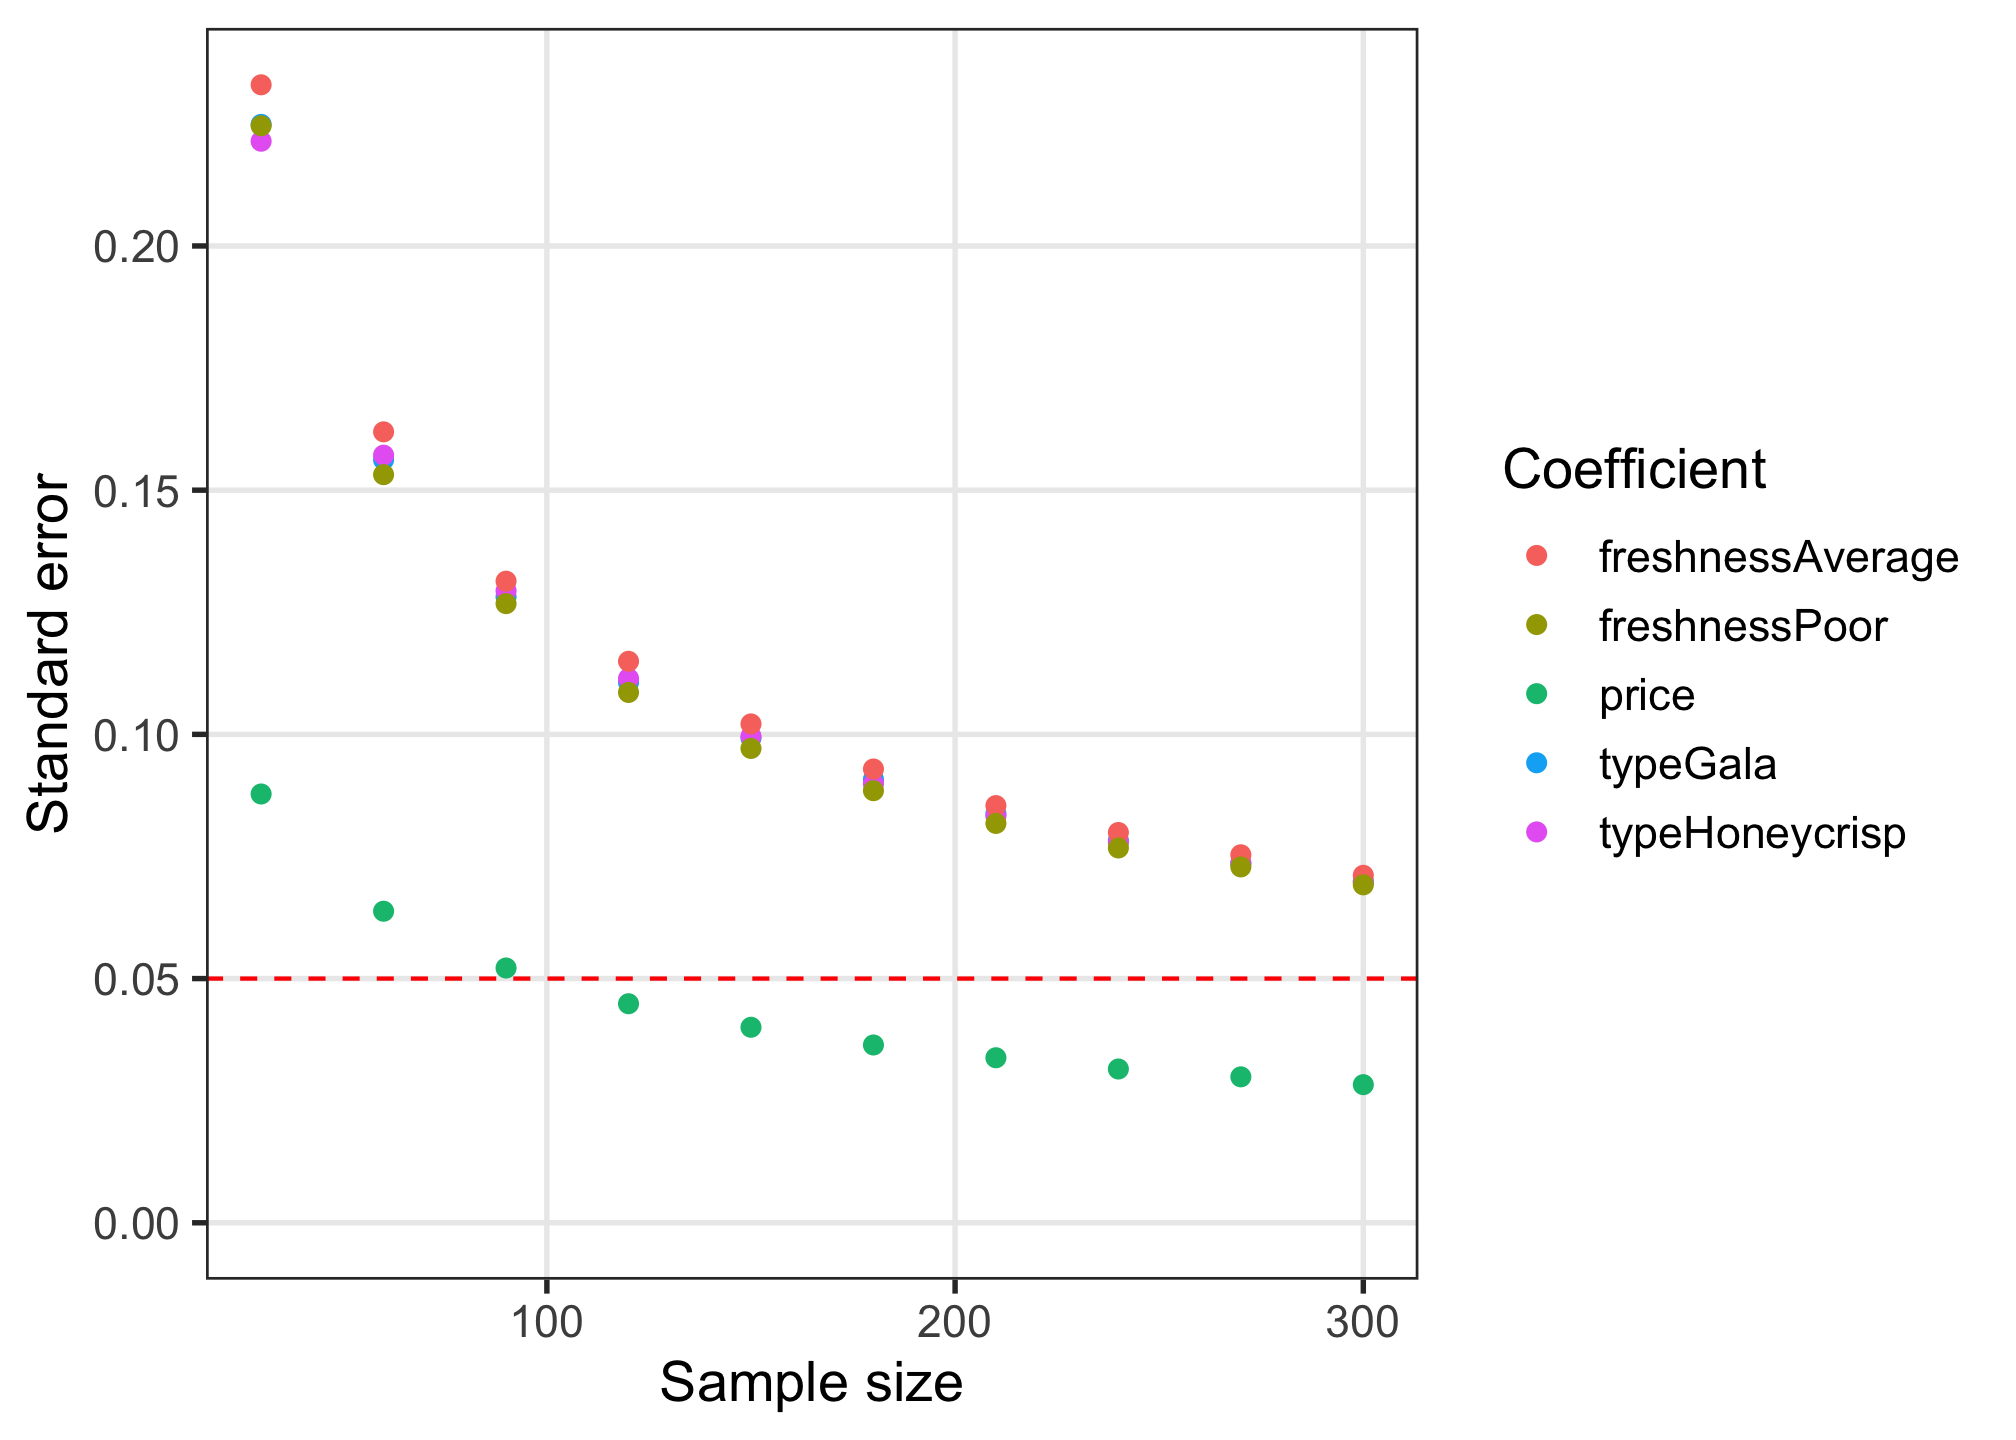
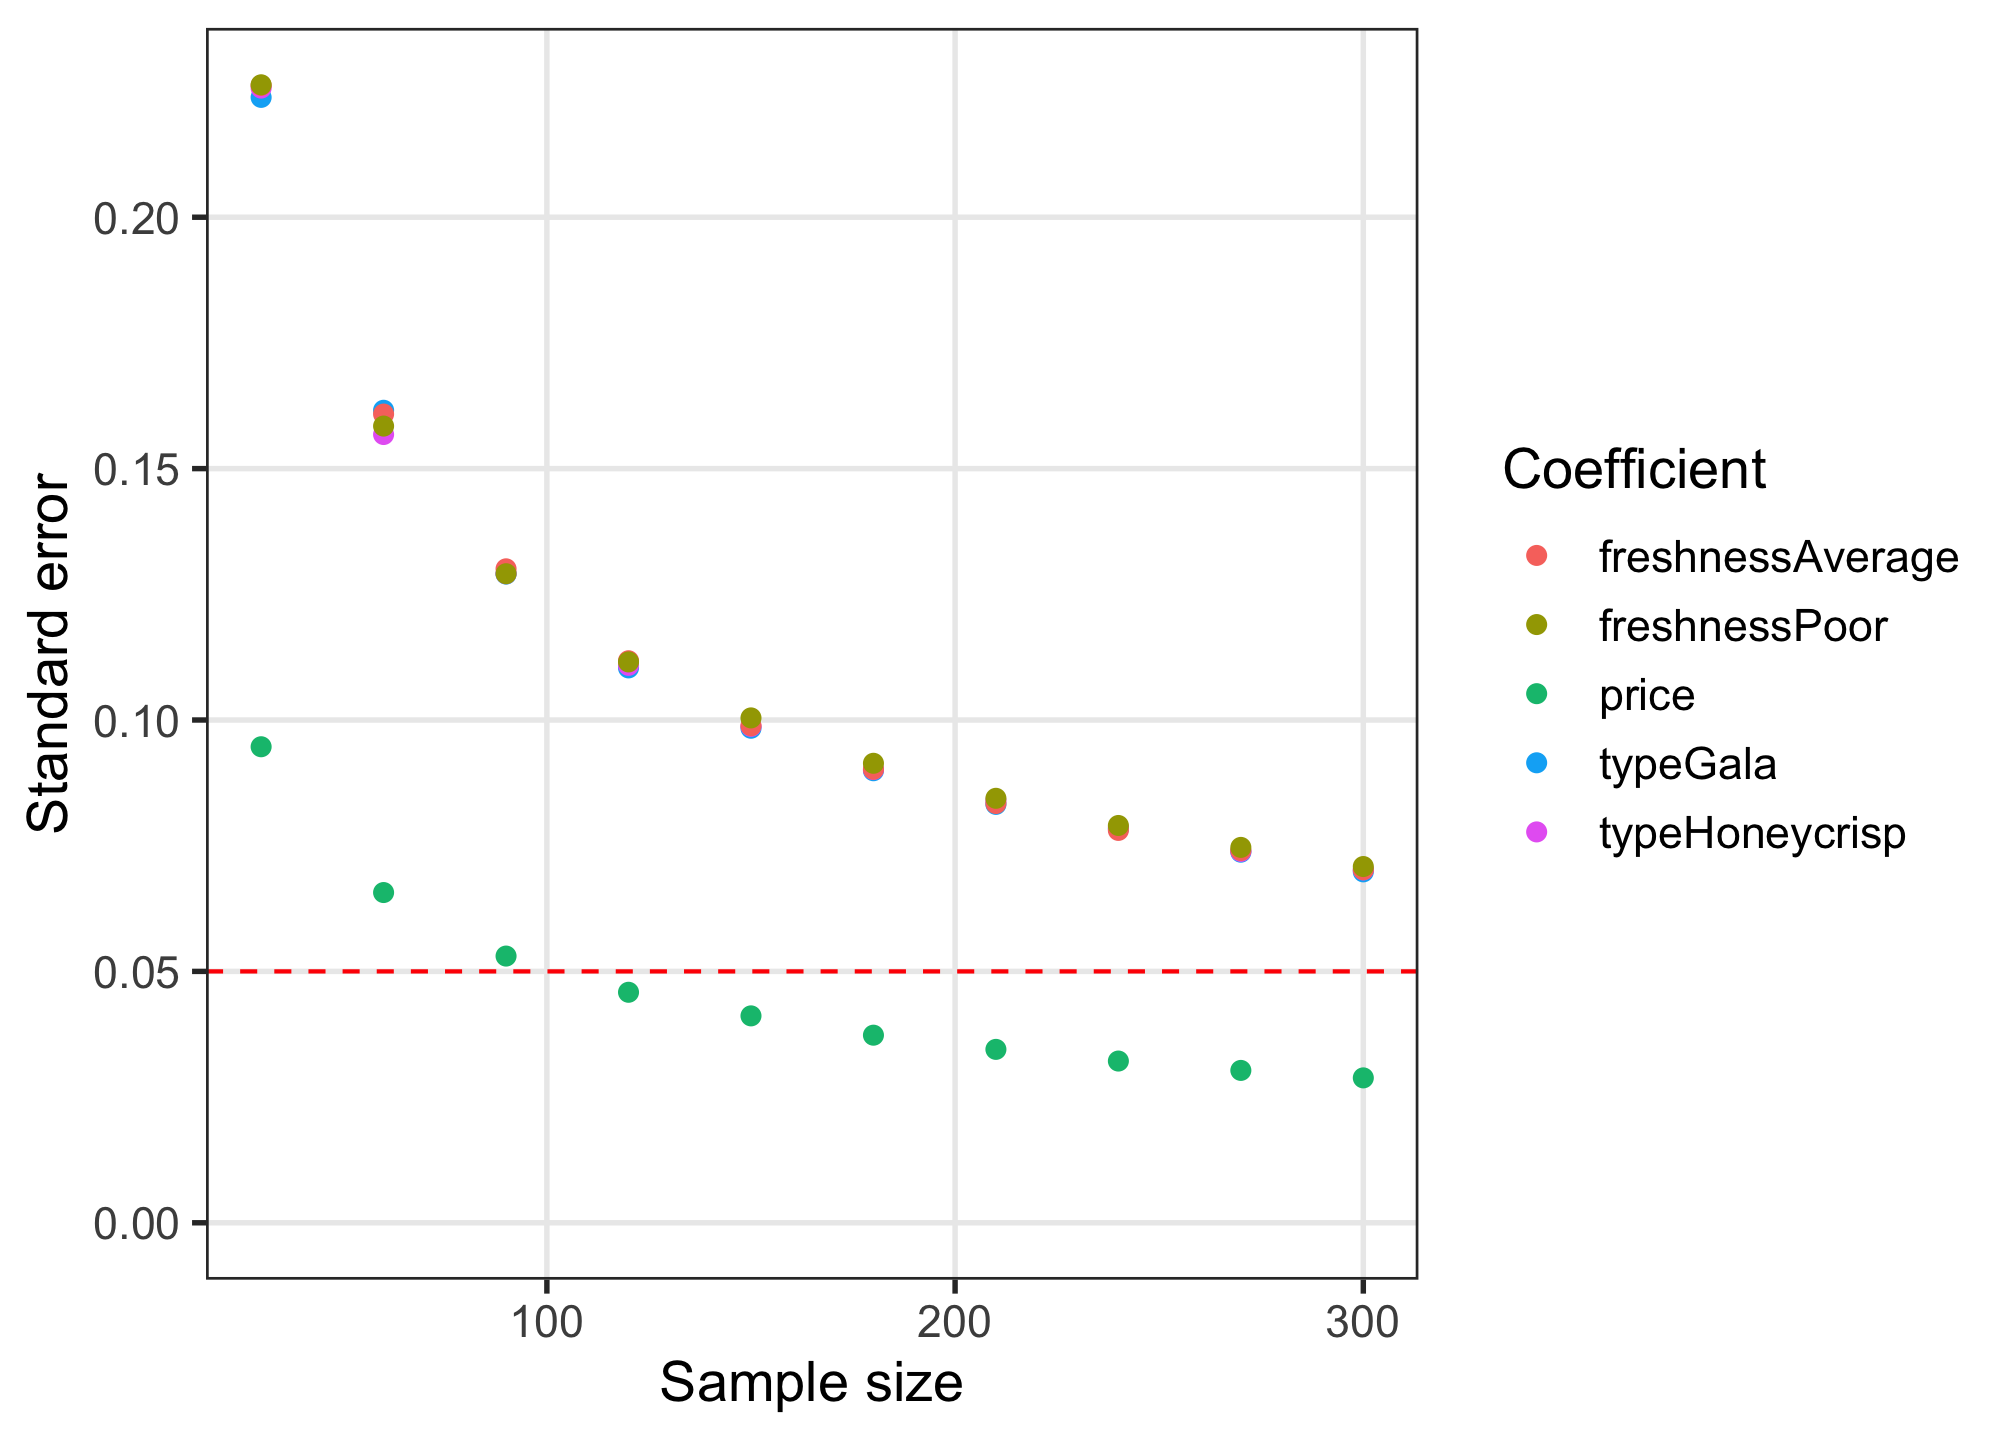
updated readme

diff --git a/README.md b/README.md
@@ -1,9 +1,7 @@
 
 <!-- README.md is generated from README.Rmd. Please edit that file -->
 
-# cbcTools
-
-# logitr <a href='https://jhelvy.github.io/cbcTools/'><img src='man/figures/logo.png' align="right" style="height:139px;"/></a>
+# cbcTools <a href='https://jhelvy.github.io/cbcTools/'><img src='man/figures/logo.png' align="right" style="height:139px;"/></a>
 
 <!-- badges: start -->
 
@@ -84,12 +82,12 @@ dim(design)  # View dimensions
 #> [1] 5400    8
 head(design) # Preview first 6 rows
 #>   respID qID altID obsID profileID price       type freshness
-#> 1      1   1     1     1        47   3.0       Fuji      Poor
-#> 2      1   1     2     1        41   3.5 Honeycrisp   Average
-#> 3      1   1     3     1        39   2.5 Honeycrisp   Average
-#> 4      1   2     1     2        62   3.5 Honeycrisp      Poor
-#> 5      1   2     2     2        49   4.0       Fuji      Poor
-#> 6      1   2     3     2        20   3.5 Honeycrisp Excellent
+#> 1      1   1     1     1         4   2.5       Fuji Excellent
+#> 2      1   1     2     1        24   2.0       Fuji   Average
+#> 3      1   1     3     1        53   2.5       Gala      Poor
+#> 4      1   2     1     2        15   1.0 Honeycrisp Excellent
+#> 5      1   2     2     2        37   1.5 Honeycrisp   Average
+#> 6      1   2     3     2        45   2.0       Fuji      Poor
 ```
 
 For now, the `cbc_design()` function only generates a randomized design.
@@ -131,12 +129,12 @@ dim(design_labeled)
 #> [1] 5400    8
 head(design_labeled)
 #>   respID qID altID obsID profileID price       type freshness
-#> 1      1   1     1     1        24   2.0       Fuji   Average
-#> 2      1   1     2     1        55   3.5       Gala      Poor
-#> 3      1   1     3     1        58   1.5 Honeycrisp      Poor
-#> 4      1   2     1     2        43   1.0       Fuji      Poor
-#> 5      1   2     2     2        33   3.0       Gala   Average
-#> 6      1   2     3     2        38   2.0 Honeycrisp   Average
+#> 1      1   1     1     1         1   1.0       Fuji Excellent
+#> 2      1   1     2     1        54   3.0       Gala      Poor
+#> 3      1   1     3     1        60   2.5 Honeycrisp      Poor
+#> 4      1   2     1     2        25   2.5       Fuji   Average
+#> 5      1   2     2     2        34   3.5       Gala   Average
+#> 6      1   2     3     2        57   1.0 Honeycrisp      Poor
 ```
 
 In the above example, you can see in the first six rows of the survey
@@ -164,19 +162,19 @@ dim(design_nochoice)
 #> [1] 7200   13
 head(design_nochoice)
 #>       respID qID altID obsID profileID price type_Fuji type_Gala
-#> 1          1   1     1     1         1   1.0         1         0
-#> 2          1   1     2     1        58   1.5         0         0
-#> 3          1   1     3     1        29   1.0         0         1
+#> 1          1   1     1     1        18   2.5         0         0
+#> 2          1   1     2     1        37   1.5         0         0
+#> 3          1   1     3     1        10   2.0         0         1
 #> 11000      1   1     4     1         0   0.0         0         0
-#> 4          1   2     1     2        31   2.0         0         1
-#> 5          1   2     2     2         1   1.0         1         0
+#> 4          1   2     1     2        27   3.5         1         0
+#> 5          1   2     2     2        33   3.0         0         1
 #>       type_Honeycrisp freshness_Excellent freshness_Average freshness_Poor
-#> 1                   0                   1                 0              0
-#> 2                   1                   0                 0              1
-#> 3                   0                   0                 1              0
+#> 1                   1                   1                 0              0
+#> 2                   1                   0                 1              0
+#> 3                   0                   1                 0              0
 #> 11000               0                   0                 0              0
 #> 4                   0                   0                 1              0
-#> 5                   0                   1                 0              0
+#> 5                   0                   0                 1              0
 #>       no_choice
 #> 1             0
 #> 2             0
@@ -203,17 +201,17 @@ cbc_balance(design)
 #> price:
 #> 
 #>   1 1.5   2 2.5   3 3.5   4 
-#> 757 786 754 741 757 752 853 
+#> 754 804 790 783 752 786 731 
 #> 
 #> type:
 #> 
 #>       Fuji       Gala Honeycrisp 
-#>       1775       1779       1846 
+#>       1791       1802       1807 
 #> 
 #> freshness:
 #> 
 #> Excellent   Average      Poor 
-#>      1783      1722      1895 
+#>      1786      1815      1799 
 #> 
 #> ==============================
 #> Pairwise attribute counts:
@@ -221,31 +219,31 @@ cbc_balance(design)
 #> price & type:
 #>      
 #>       Fuji Gala Honeycrisp
-#>   1    240  252        265
-#>   1.5  266  261        259
-#>   2    263  235        256
-#>   2.5  233  263        245
-#>   3    244  254        259
-#>   3.5  240  250        262
-#>   4    289  264        300
+#>   1    255  233        266
+#>   1.5  250  275        279
+#>   2    262  288        240
+#>   2.5  267  256        260
+#>   3    242  257        253
+#>   3.5  275  246        265
+#>   4    240  247        244
 #> 
 #> price & freshness:
 #>      
 #>       Excellent Average Poor
-#>   1         252     237  268
-#>   1.5       268     263  255
-#>   2         258     234  262
-#>   2.5       253     218  270
-#>   3         241     243  273
-#>   3.5       229     264  259
-#>   4         282     263  308
+#>   1         251     250  253
+#>   1.5       251     278  275
+#>   2         259     295  236
+#>   2.5       254     275  254
+#>   3         270     231  251
+#>   3.5       249     268  269
+#>   4         252     218  261
 #> 
 #> type & freshness:
 #>             
 #>              Excellent Average Poor
-#>   Fuji             602     569  604
-#>   Gala             573     559  647
-#>   Honeycrisp       608     594  644
+#>   Fuji             595     608  588
+#>   Gala             593     593  616
+#>   Honeycrisp       598     614  595
 ```
 
 The `cbc_overlap()` function prints out a summary of the amount of
@@ -265,17 +263,17 @@ cbc_overlap(design)
 #> price:
 #> 
 #>    1    2    3 
-#>   25  603 1172 
+#>   22  604 1174 
 #> 
 #> type:
 #> 
 #>    1    2    3 
-#>  171 1202  427 
+#>  182 1189  429 
 #> 
 #> freshness:
 #> 
 #>    1    2    3 
-#>  180 1207  413
+#>  190 1195  415
 ```
 
 ## Simulate choices
@@ -291,12 +289,12 @@ data <- cbc_choices(
 
 head(data)
 #>   respID qID altID obsID profileID price       type freshness choice
-#> 1      1   1     1     1        47   3.0       Fuji      Poor      0
-#> 2      1   1     2     1        41   3.5 Honeycrisp   Average      1
-#> 3      1   1     3     1        39   2.5 Honeycrisp   Average      0
-#> 4      1   2     1     2        62   3.5 Honeycrisp      Poor      0
-#> 5      1   2     2     2        49   4.0       Fuji      Poor      0
-#> 6      1   2     3     2        20   3.5 Honeycrisp Excellent      1
+#> 1      1   1     1     1         4   2.5       Fuji Excellent      0
+#> 2      1   1     2     1        24   2.0       Fuji   Average      1
+#> 3      1   1     3     1        53   2.5       Gala      Poor      0
+#> 4      1   2     1     2        15   1.0 Honeycrisp Excellent      1
+#> 5      1   2     2     2        37   1.5 Honeycrisp   Average      0
+#> 6      1   2     3     2        45   2.0       Fuji      Poor      0
 ```
 
 You can also pass a list of prior parameters to define a utility model
@@ -378,20 +376,20 @@ results <- cbc_power(
 
 head(results)
 #>   sampleSize             coef          est         se
-#> 1         30            price -0.053041608 0.08779430
-#> 2         30         typeGala -0.006306645 0.22489573
-#> 3         30   typeHoneycrisp -0.280957278 0.22144512
-#> 4         30 freshnessAverage -0.286889463 0.23299880
-#> 5         30    freshnessPoor -0.206788560 0.22460545
-#> 6         60            price -0.046083030 0.06379055
+#> 1         30            price -0.006224101 0.09468067
+#> 2         30         typeGala  0.369026379 0.22383557
+#> 3         30   typeHoneycrisp -0.091744318 0.22568818
+#> 4         30 freshnessAverage  0.035948707 0.22621849
+#> 5         30    freshnessPoor  0.143719159 0.22633967
+#> 6         60            price  0.011099730 0.06568333
 tail(results)
-#>    sampleSize             coef           est         se
-#> 45        270    freshnessPoor -5.117663e-02 0.07286187
-#> 46        300            price  8.466514e-05 0.02828145
-#> 47        300         typeGala -1.040101e-01 0.06994438
-#> 48        300   typeHoneycrisp -7.826250e-02 0.06974026
-#> 49        300 freshnessAverage -3.539404e-02 0.07114349
-#> 50        300    freshnessPoor -5.963577e-02 0.06919301
+#>    sampleSize             coef          est         se
+#> 45        270    freshnessPoor  0.052243028 0.07466345
+#> 46        300            price -0.039799782 0.02882047
+#> 47        300         typeGala  0.155510830 0.06979850
+#> 48        300   typeHoneycrisp -0.007908001 0.07019365
+#> 49        300 freshnessAverage  0.031537565 0.07021348
+#> 50        300    freshnessPoor  0.088142396 0.07085686
 ```
 
 The `results` object is a data frame containing the coefficient
